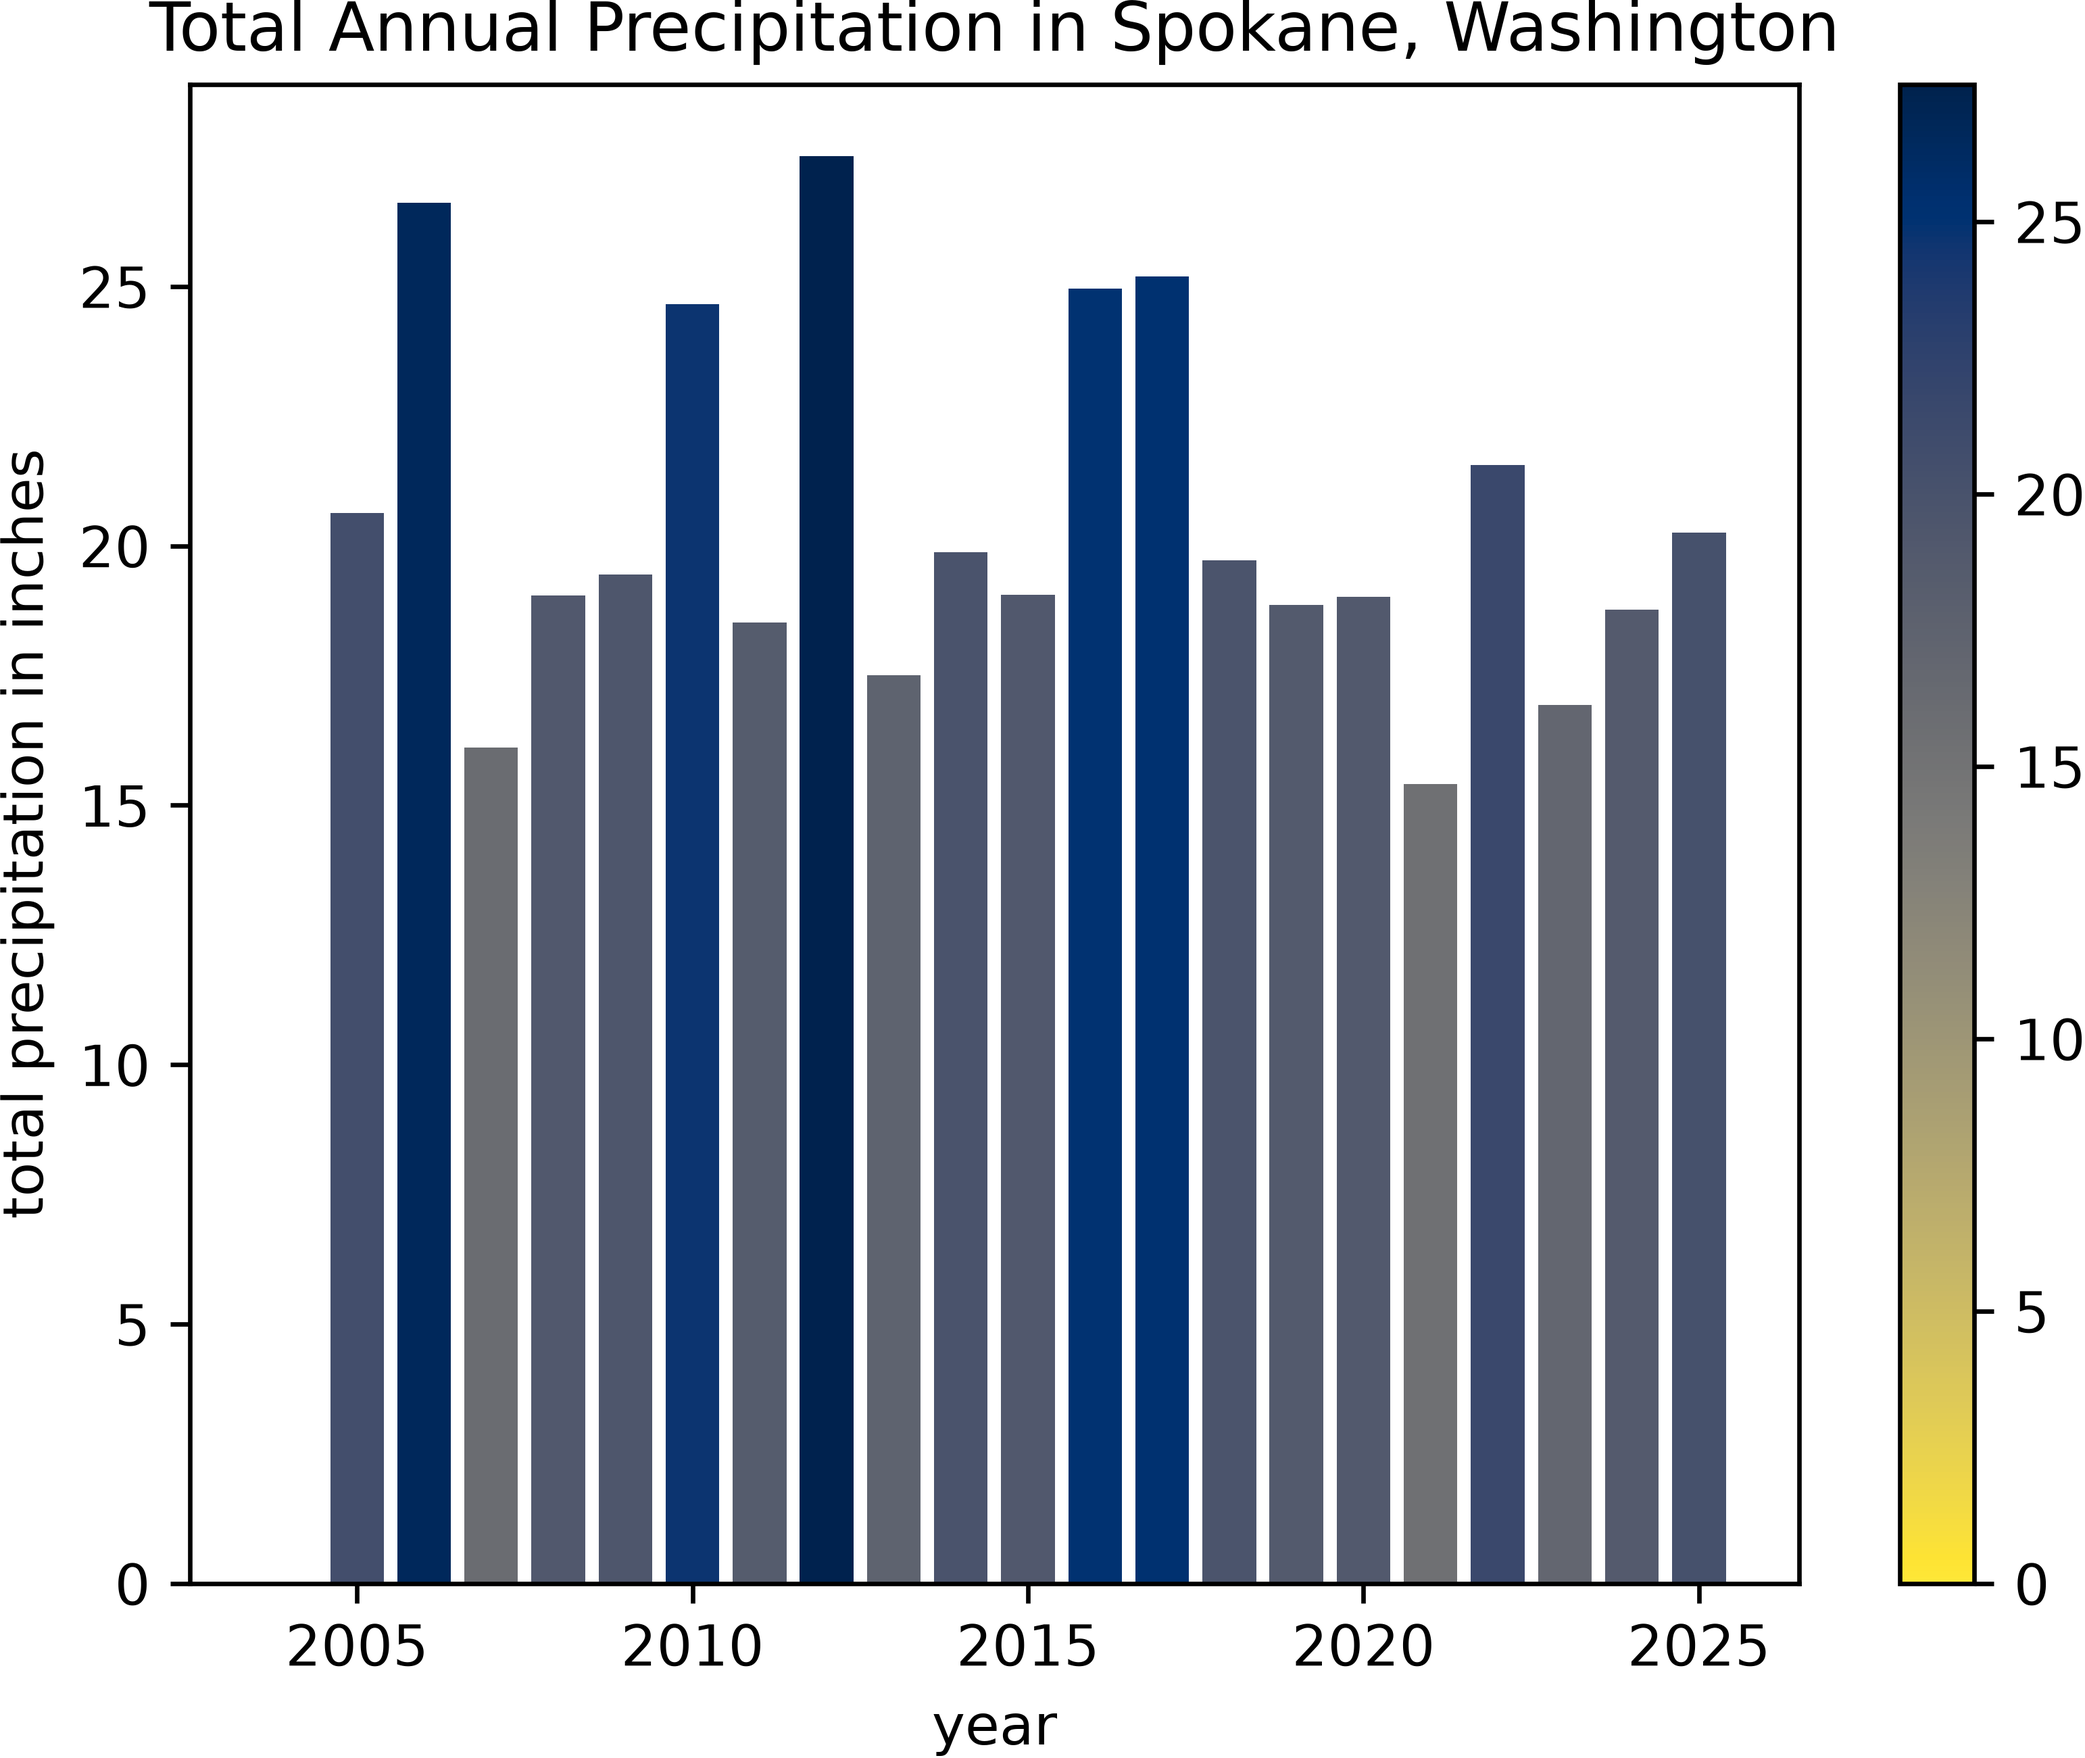
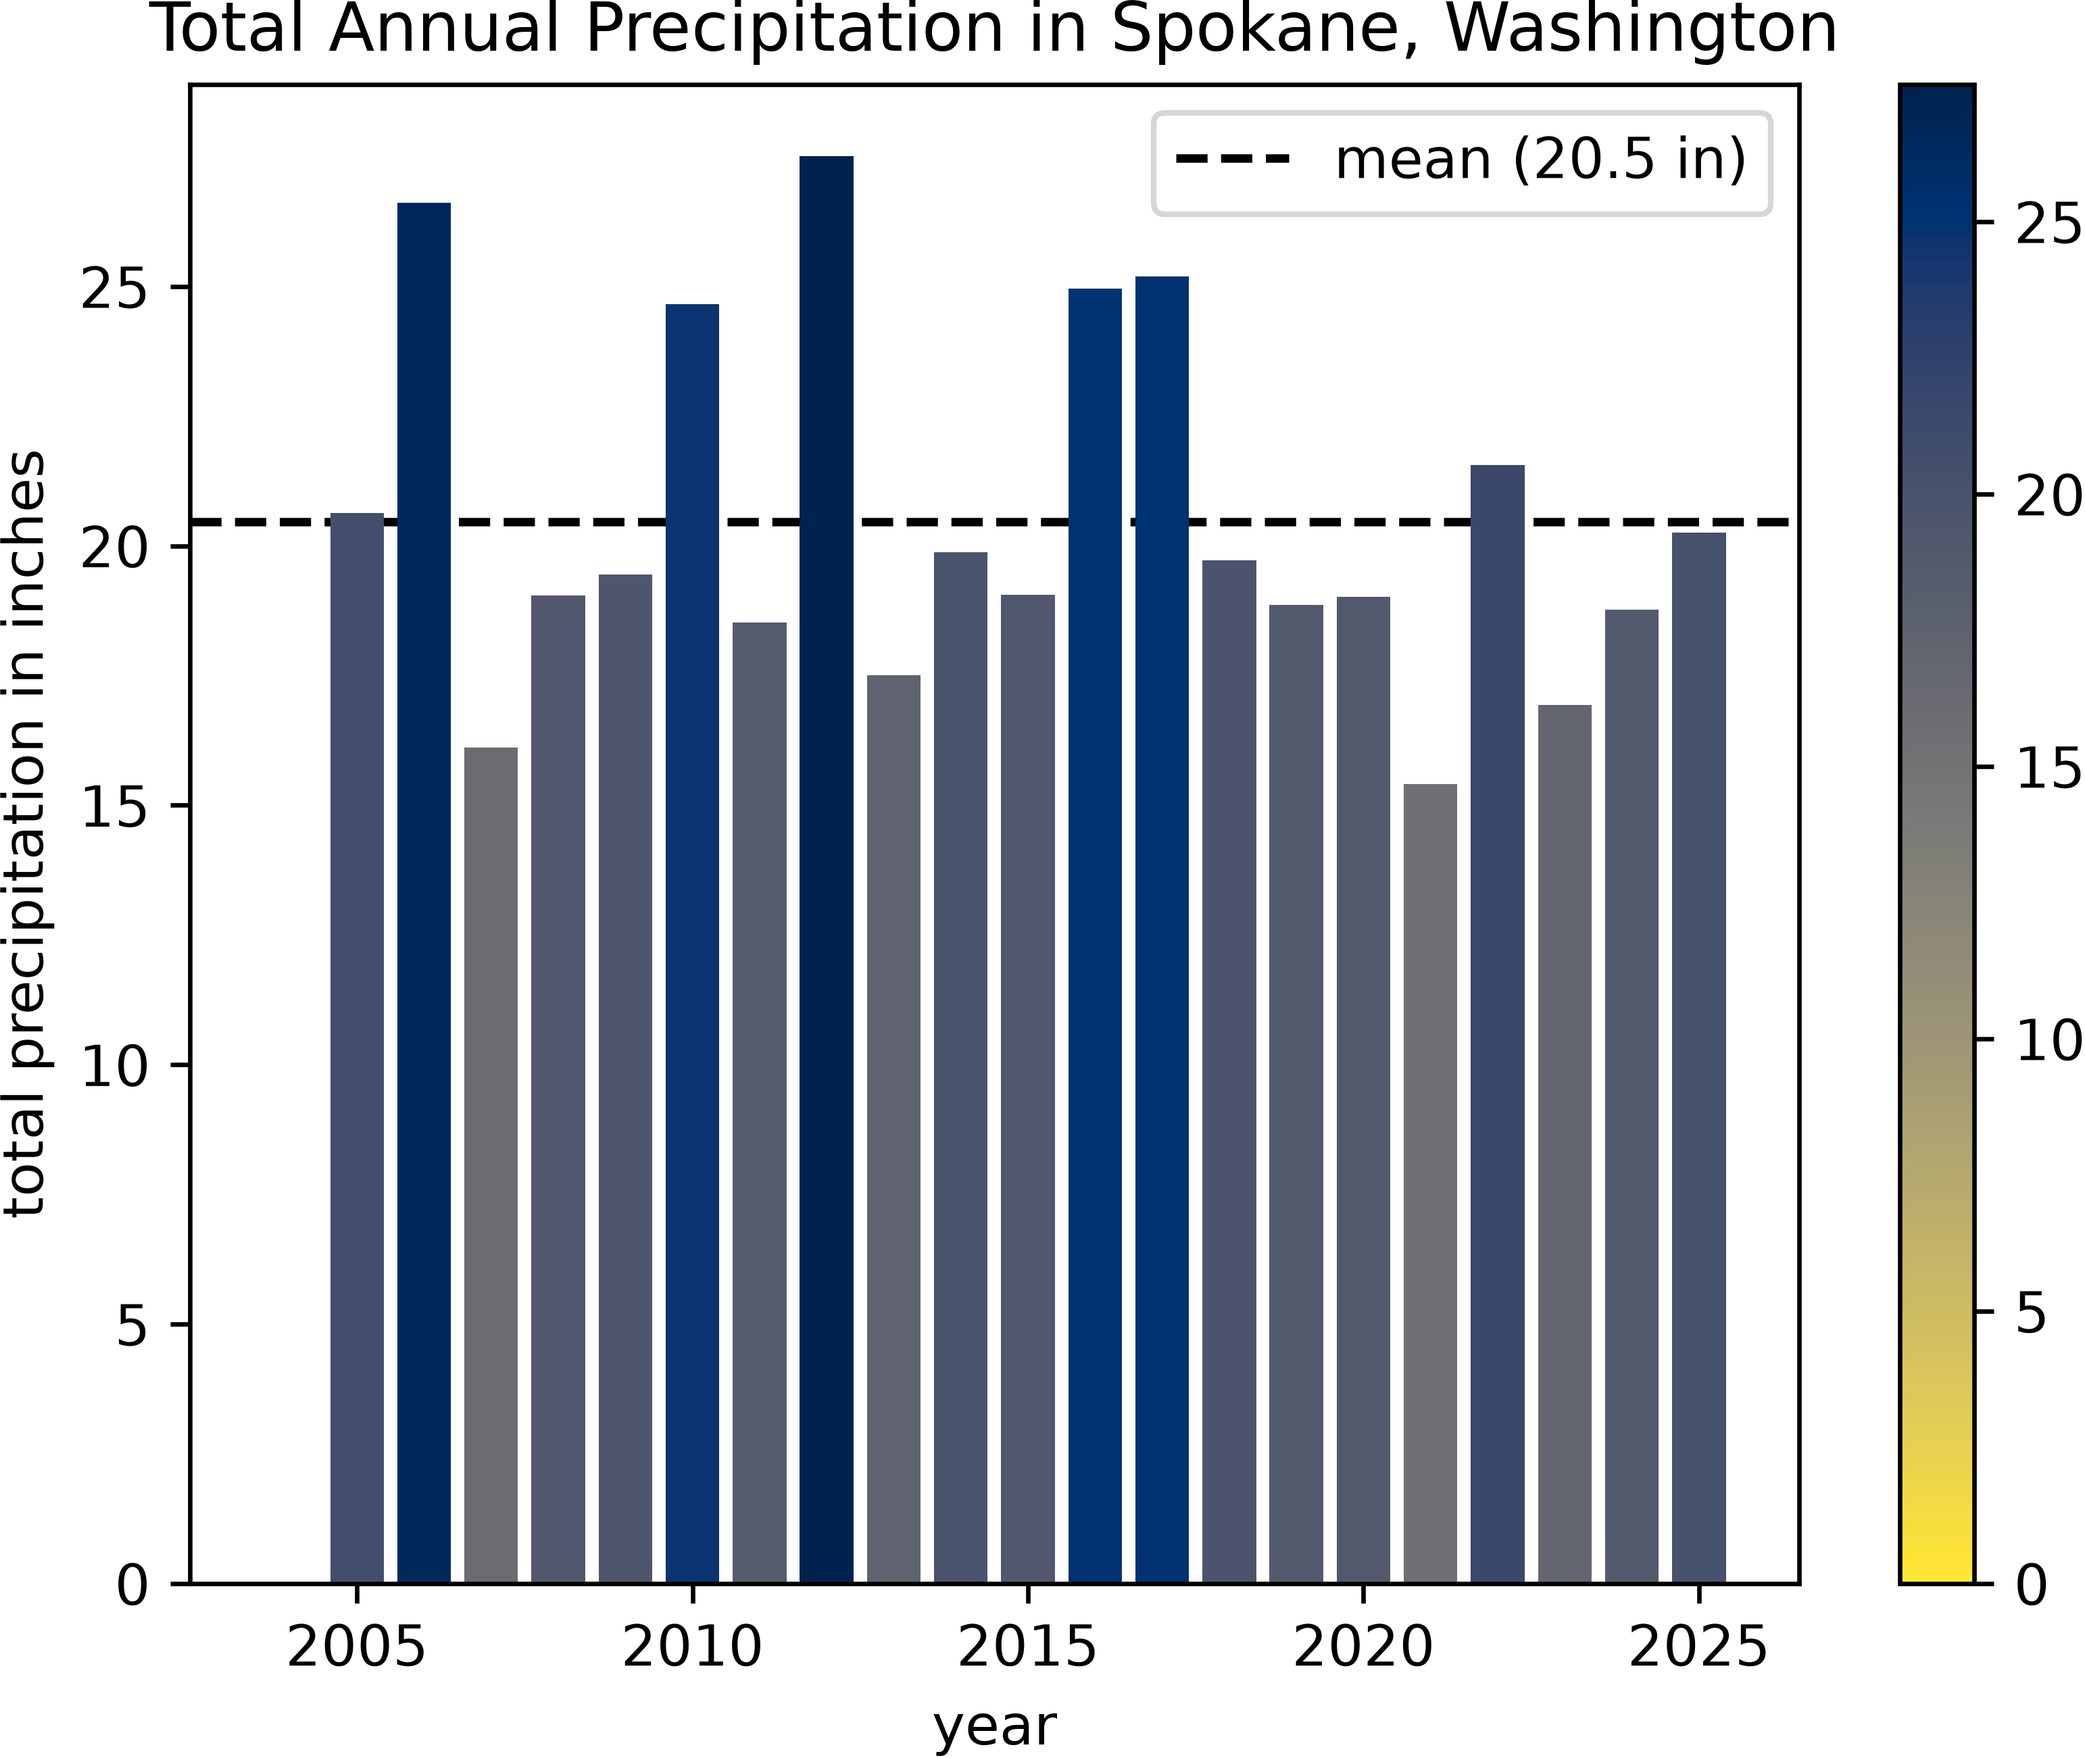
weather: added mean line to graph 2

diff --git a/weather.py b/weather.py
@@ -81,7 +81,10 @@ plt.close()
 hourly_dataframe['year']  = hourly_dataframe['date'].dt.year
 hourly_dataframe['month'] = hourly_dataframe['date'].dt.month
 
-annual_totals = hourly_dataframe.groupby('year')['precipitation'].sum()
+annual_totals          = hourly_dataframe.groupby('year')['precipitation'].sum()
+
+filtered_annual_totals = annual_totals[annual_totals.index != 2004] # for some reason there is some data showing up from Dec 2004
+average_precipitation  = filtered_annual_totals.mean()
 
 # Graph 2: total precipitation per year
 normalized  = plt.Normalize(vmin = annual_totals.values.min(), vmax = annual_totals.values.max(), clip = True)
@@ -94,7 +97,12 @@ color_bar   = plt.colorbar(color_scale, ax=plt.gca())
 plt.title('Total Annual Precipitation in Spokane, Washington')
 plt.xlabel('year')
 plt.ylabel('total precipitation in inches')
-plt.bar(annual_totals.index, annual_totals.values, color = bar_colors)
+
+plt.axhline(y = average_precipitation, color = 'black', zorder = 1,
+            linestyle = '--', linewidth = 1.5, label = f'mean ({average_precipitation:.1f} in)')
+plt.legend(loc = 'upper right')
+
+plt.bar(annual_totals.index, annual_totals.values, color = bar_colors, zorder = 2)
 
 # plt.show()
 plt.savefig("TotalAnnualPrecipiation_Spokane.png", format = "png", dpi = 600, bbox_inches = 'tight', pad_inches = 0)
